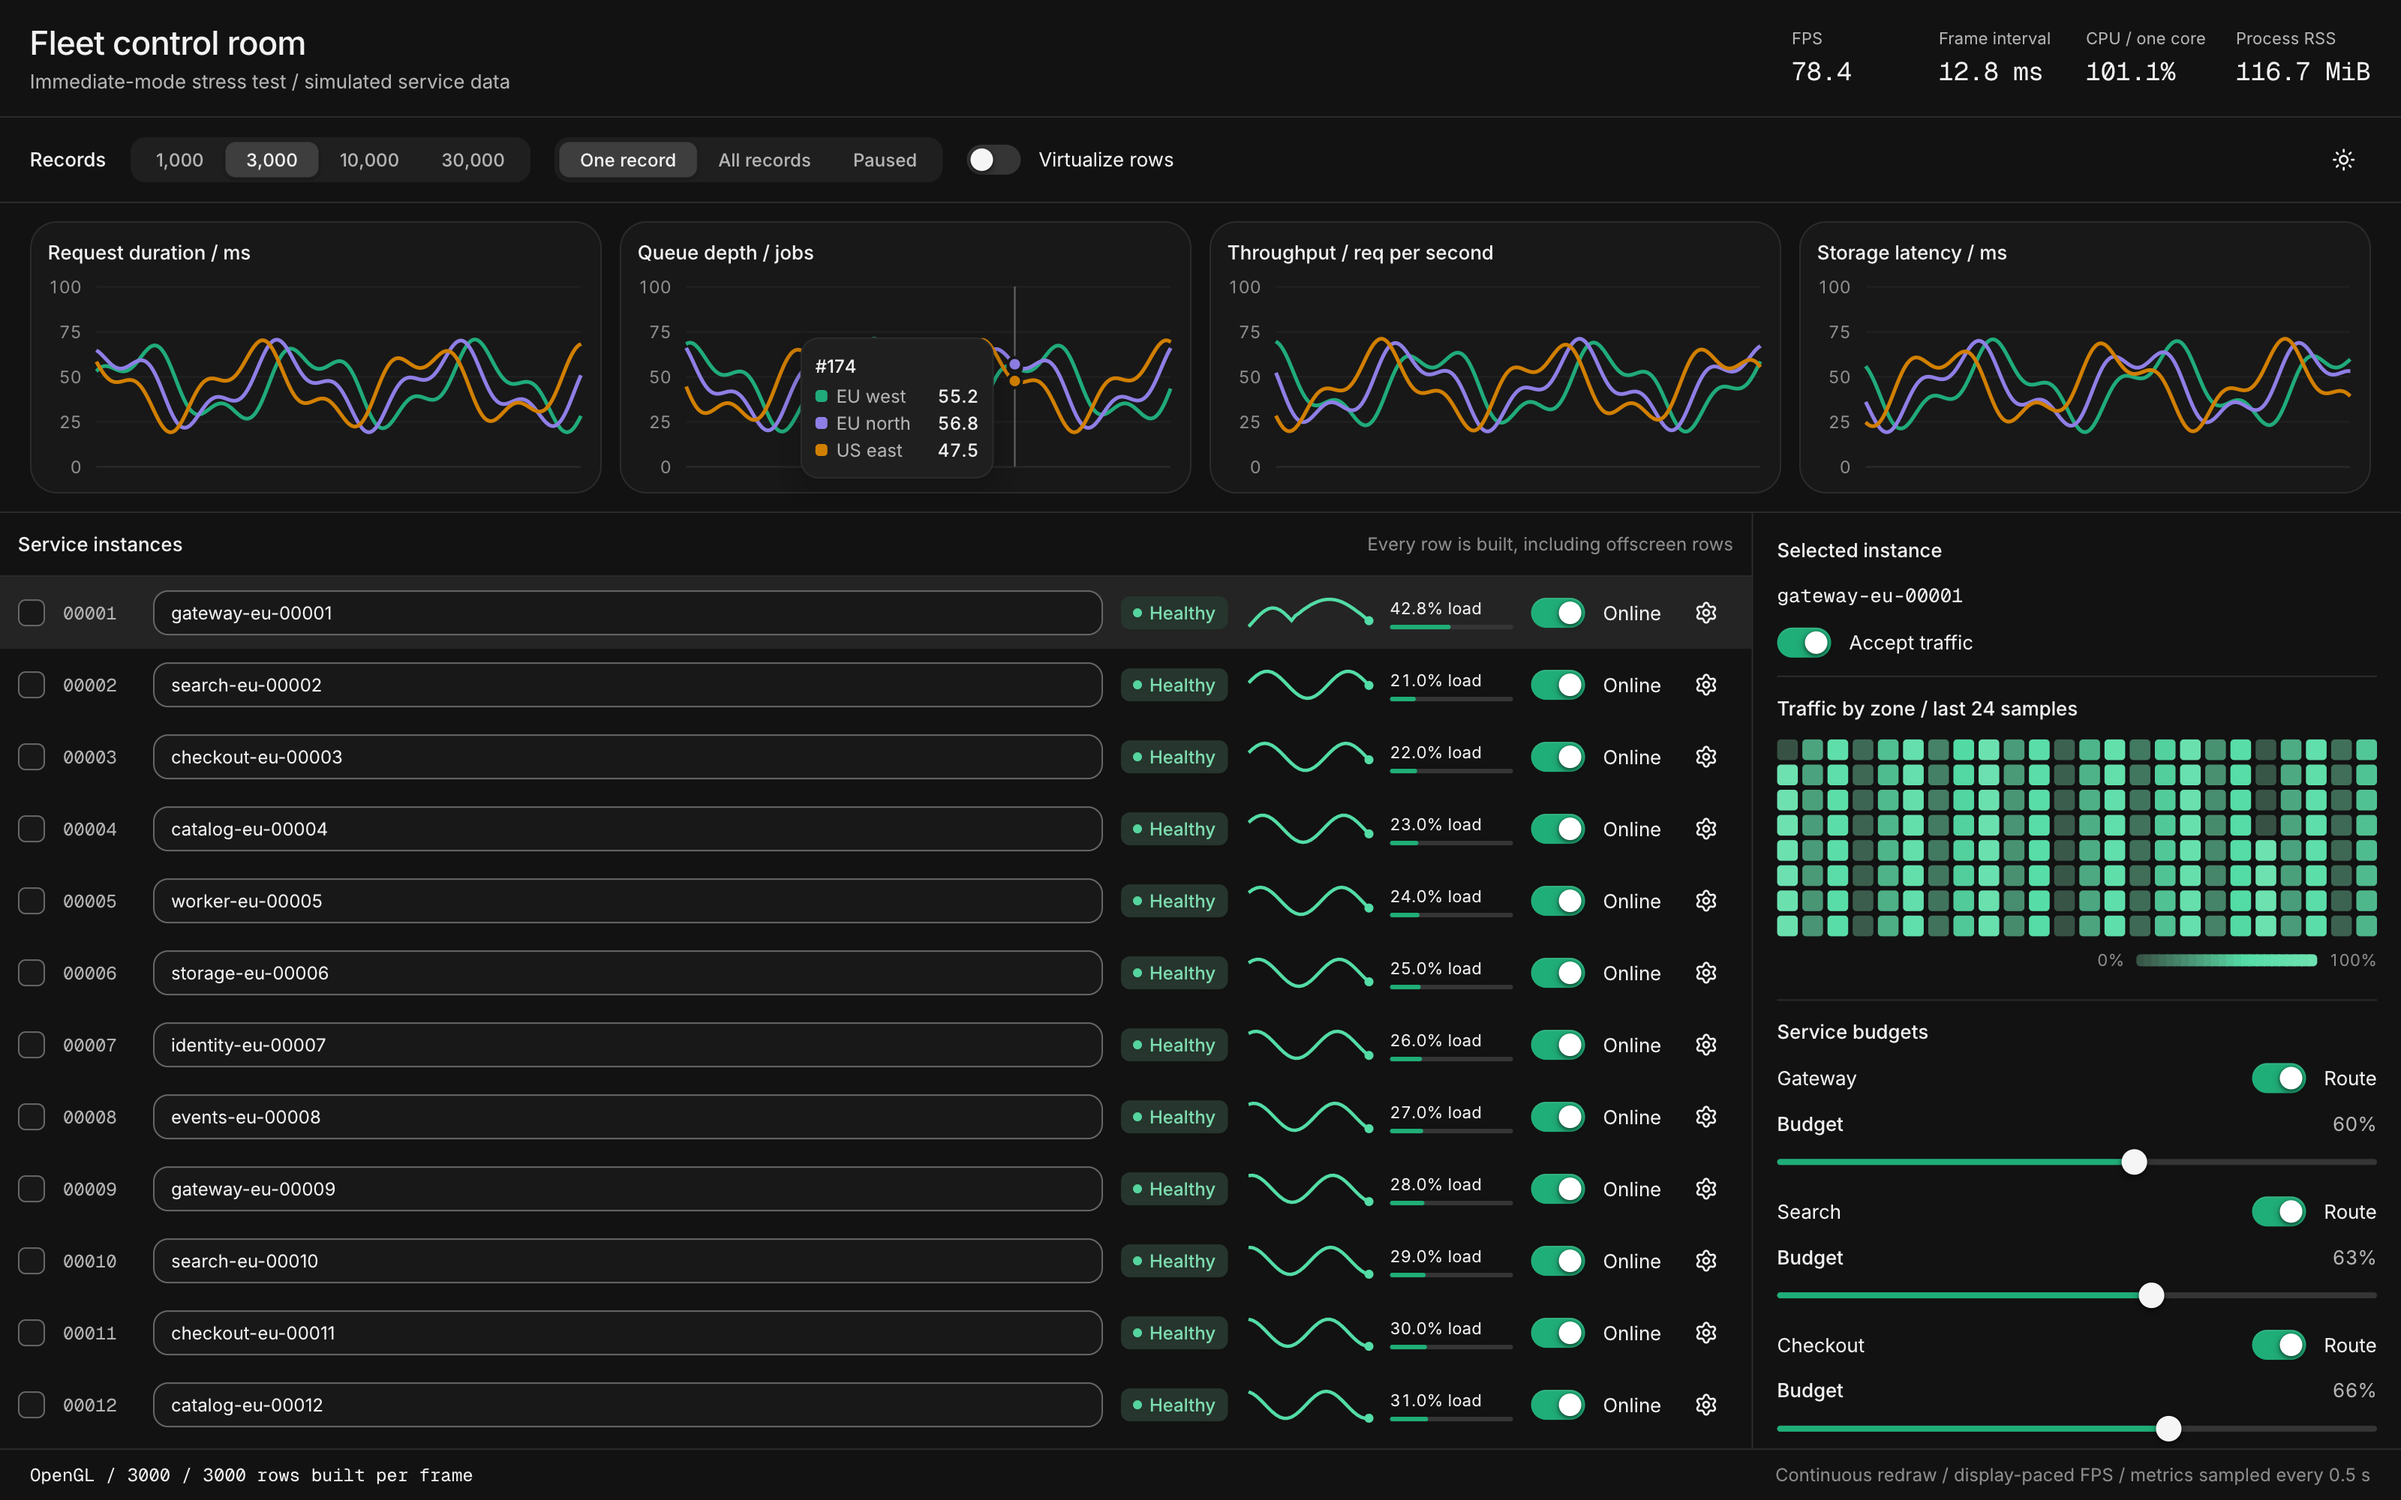
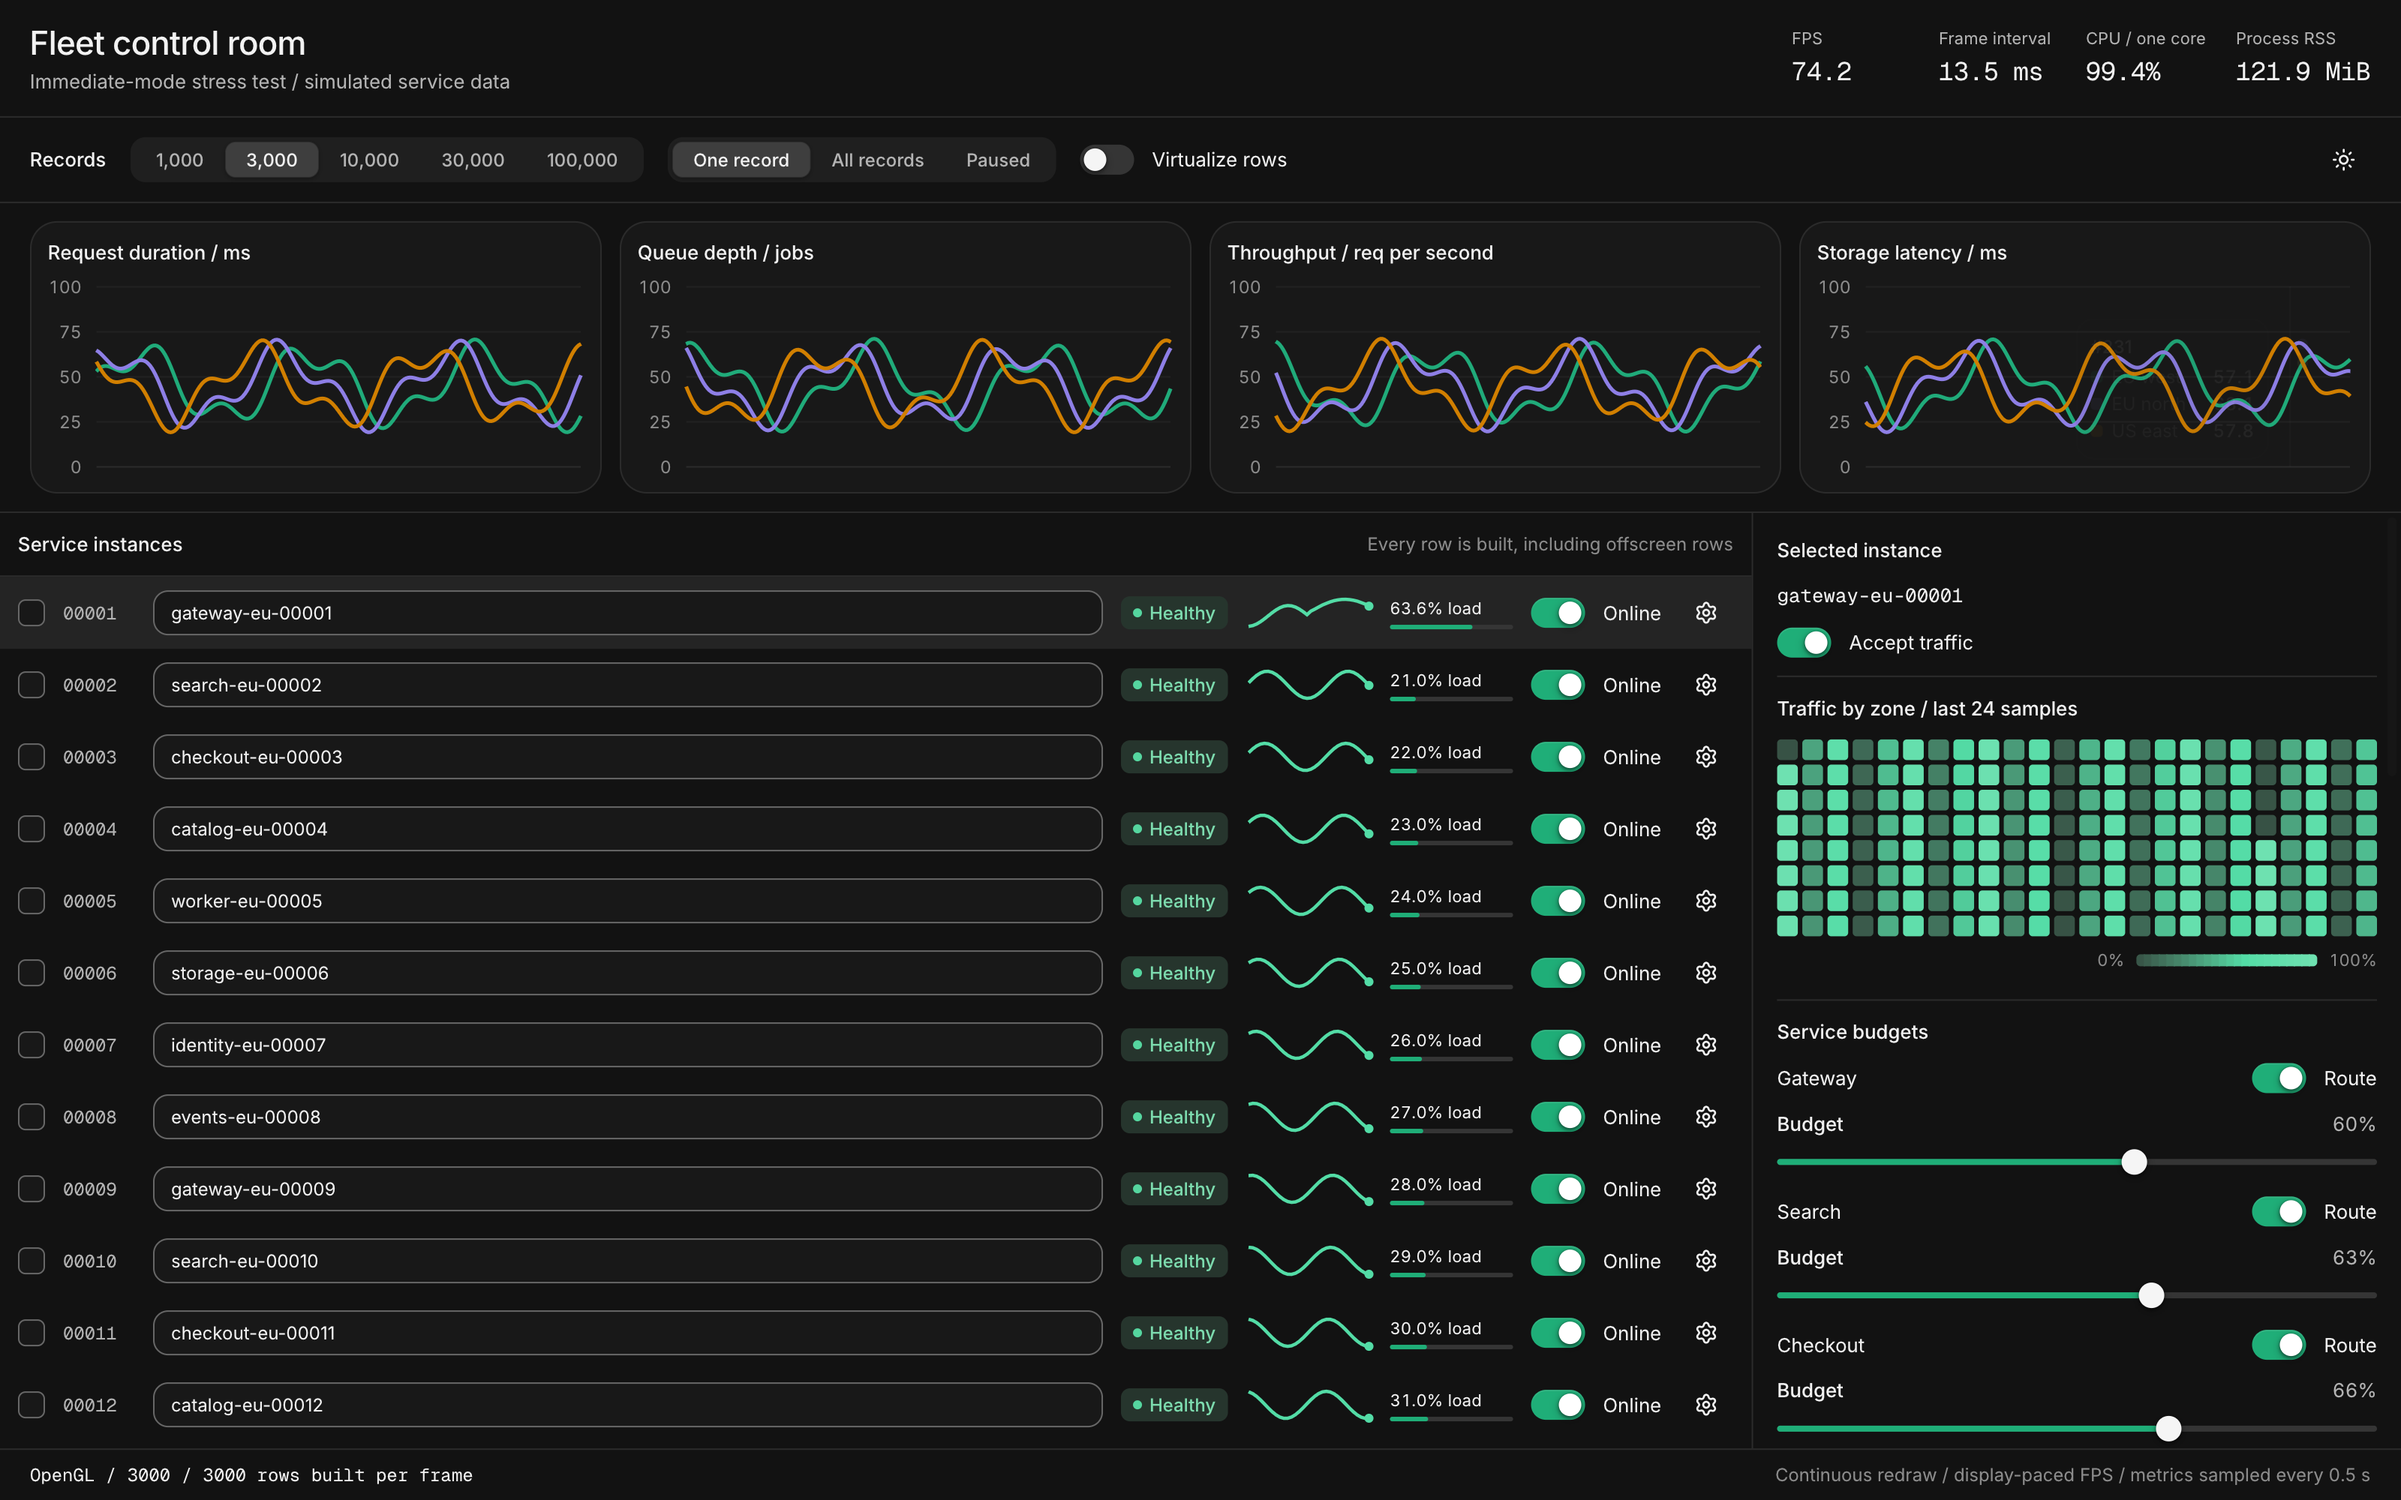
feat: update stress-test app to support up to 100,000 records and enhance documentation

diff --git a/tests/test_stress.c b/tests/test_stress.c
@@ -75,6 +75,15 @@ int main(int argc, char **argv) {
     CHECK(unchanged.load == state.records[1].load &&
           memcmp(unchanged.history, state.records[1].history, sizeof unchanged.history) == 0);
 
+    float last_load = state.records[STRESS_RECORDS - 1].load;
+    state.workload = 4;
+    state.changes = 1;
+    stress_advance(&state, 0.2f);
+    CHECK(state.records[STRESS_RECORDS - 1].load != last_load);
+    CHECK(state.records[STRESS_RECORDS - 1].history[STRESS_HISTORY - 1] == state.records[STRESS_RECORDS - 1].load);
+    state.workload = 1;
+    state.changes = 2;
+
     cui_sw_renderer *sw = cui_sw_create();
     CHECK(sw != NULL);
     if (!sw) return 1;
@@ -105,14 +114,15 @@ int main(int argc, char **argv) {
     stress_test_frame(ui, &state);
     CHECK(state.built_rows > 0 && state.built_rows < 40);
 
-    for (int load = 0; load < 4; load++) {
+    for (int load = 0; load < 5; load++) {
         state.workload = load;
         stress_test_frame(ui, &state);
         CHECK(state.built_rows > 0 && state.built_rows < 40);
     }
+    state.workload = 3;
     state.virtualized = false;
     stress_test_frame(ui, &state);
-    CHECK(state.built_rows == STRESS_RECORDS);
+    CHECK(state.built_rows == 30000);
     state.workload = 1;
     cui_set_theme(ui, CUI_THEME_LIGHT);
     stress_test_frame(ui, &state);

diff --git a/examples/stress.c b/examples/stress.c
@@ -22,8 +22,8 @@
 #endif
 #endif
 
-enum { STRESS_RECORDS = 30000, STRESS_HISTORY = 32, STRESS_POINTS = 256, STRESS_SERVICES = 8 };
-static const int stress_counts[] = { 1000, 3000, 10000, STRESS_RECORDS };
+enum { STRESS_RECORDS = 100000, STRESS_HISTORY = 32, STRESS_POINTS = 256, STRESS_SERVICES = 8 };
+static const int stress_counts[] = { 1000, 3000, 10000, 30000, STRESS_RECORDS };
 
 typedef struct {
     double sample_at, cpu_at, fps, frame_ms, cpu_percent, rss_mib;
@@ -202,11 +202,11 @@ static void stress_header(cui_ctx *ui, app_state *a) {
 }
 
 static void stress_toolbar(cui_ctx *ui, app_state *a) {
-    static const char *loads[] = { "1,000", "3,000", "10,000", "30,000" };
+    static const char *loads[] = { "1,000", "3,000", "10,000", "30,000", "100,000" };
     static const char *changes[] = { "One record", "All records", "Paused" };
     cui_row(ui, .width = CUI_FILL, .gap = 16, .pad_x = 20, .pad_y = 10, .wrap = true) {
         cui_label(ui, "Records");
-        if (cui_segmented(ui, "workload", loads, 4, &a->workload, .size = CUI_SIZE_SM)) {
+        if (cui_segmented(ui, "workload", loads, 5, &a->workload, .size = CUI_SIZE_SM)) {
             if (a->selected >= stress_counts[a->workload]) a->selected = 0;
             cui_scroll_to(ui, "records", 0);
             cui_scroll_to(ui, "virtual-records", 0);

diff --git a/CHANGELOG.md b/CHANGELOG.md
@@ -6,7 +6,7 @@ What changed in Better-C-UI, newest first. Every component mentioned here runs l
 
 ### Added
 
-- **Stress-test app** ([`examples/stress.c`](examples/stress.c)): a dense operations console with charts, editable service records, routing controls and logs. Compare 1,000–30,000 fully built rows with virtualized rows, change one record or all records, and watch FPS, frame interval, process CPU and current resident memory at the top right. See [Performance](docs/performance.md#interactive-stress-app).
+- **Stress-test app** ([`examples/stress.c`](examples/stress.c)): a dense operations console with charts, editable service records, routing controls and logs. Compare 1,000–100,000 fully built rows with virtualized rows, change one record or all records, and watch FPS, frame interval, process CPU and current resident memory at the top right. See [Performance](docs/performance.md#interactive-stress-app).
 - **Instruments**, five components for interfaces that read like an instrument: values as dots, labels in the monospaced font, hairlines and one accent. See [Instruments](docs/components-more.md#instruments) and the gallery's new *Instruments* page.
   - **Dot-matrix chart** (`cui_dot_chart`): values as a grid of dots, lit up to each column's value and dim above it. Series stack, an accent series stands out, the pointer or the arrow keys show a readout, and a click returns where it landed.
   - **Chart annotations** (`cui_chart_annotation`): vertical lines, dashed thresholds and labelled points over the dot chart, the line chart and the bar chart. Labels that would overlap move to the other side of their line, then down.

diff --git a/docs/performance.md b/docs/performance.md
@@ -40,7 +40,7 @@ cmake --build build-stress --target stress --parallel
 
 On Windows with Visual Studio, add `--config Release` and run `build-stress/examples/Release/stress.exe`.
 
-- **Records:** choose 1,000, 3,000, 10,000 or 30,000. The app keeps the full synthetic dataset allocated; the selector controls how many records participate in the interface.
+- **Records:** choose 1,000, 3,000, 10,000, 30,000 or 100,000. The app keeps the full 100,000-record synthetic dataset allocated; the selector controls how many records participate in the interface.
 - **One record:** update only the inspected record every 100 ms; charts remain unchanged. **All records** updates the active records, chart histories and heatmap at the same frequency. **Paused** stops these synthetic updates. All modes continue rendering so their frame rates can be compared.
 - **Virtualize rows:** build only the visible range and a small overscan, using the same row widgets as the full-build path. The footer reports the active renderer and how many rows were actually built. Virtualization does not skip the model updates in All records mode. RSS can stay elevated after switching modes because component state is collected after inactivity and the allocator can retain freed memory.
 - Edit instance names, select checkboxes, inspect a row with its settings button, toggle traffic and drag budgets or the pane divider while watching the counters. The inspector is omitted below 1,000 logical points; the charts stack into two columns.

diff --git a/README.md b/README.md
@@ -265,7 +265,7 @@ Complete apps in [`examples/`](examples), each a single C file. They also run in
 | [`music`](examples/music.c) | Music player: cover art drawn on a canvas, track list, transport bar |
 | [`finance`](examples/finance.c) | Personal finance: top navigation, charts, painted card, budgets, goals |
 | [`dashboard`](examples/dashboard.c) | Sidebar, top bar, KPIs, charts and a sortable table |
-| [`stress`](examples/stress.c) | A busy operations console with 1,000–30,000 records, a virtualization toggle and live process FPS, CPU and memory; see [how to run it](docs/performance.md#interactive-stress-app) |
+| [`stress`](examples/stress.c) | A busy operations console with 1,000–100,000 records, a virtualization toggle and live process FPS, CPU and memory; see [how to run it](docs/performance.md#interactive-stress-app) |
 | [`mail`](examples/mail.c) | Three pane inbox, folders, reading pane, compose dialog |
 | [`notes`](examples/notes.c) | Split view, search, context menus, dialogs, shortcuts, file export |
 | [`settings`](examples/settings.c) | Forms, validation, preferences and a danger zone |
